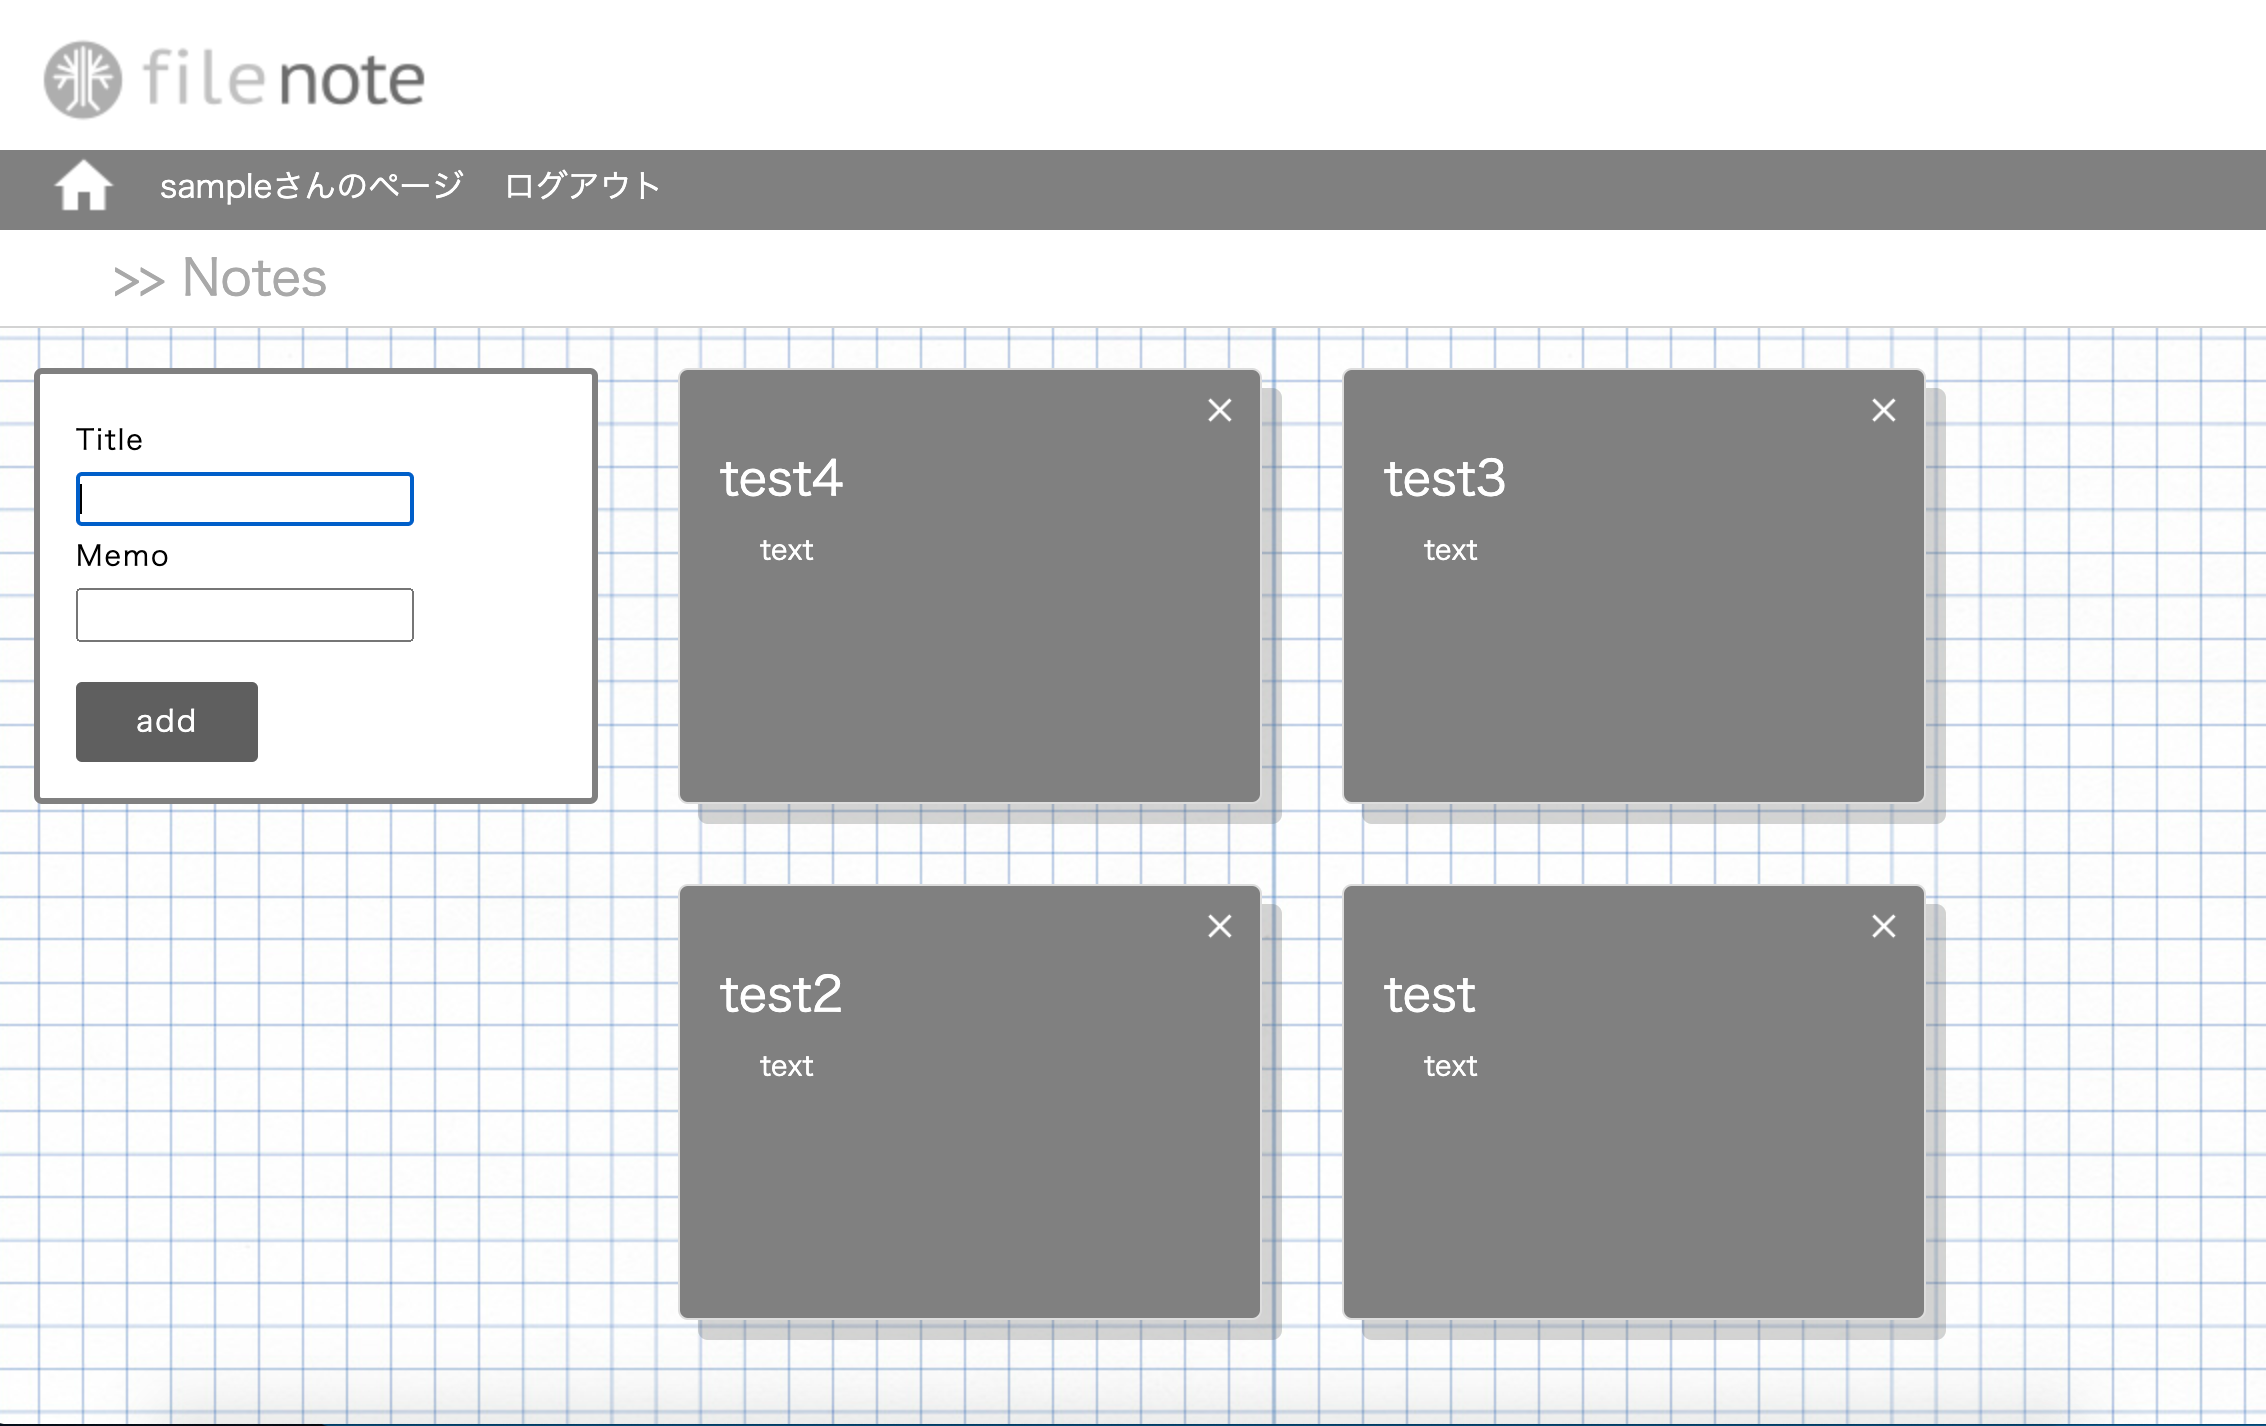
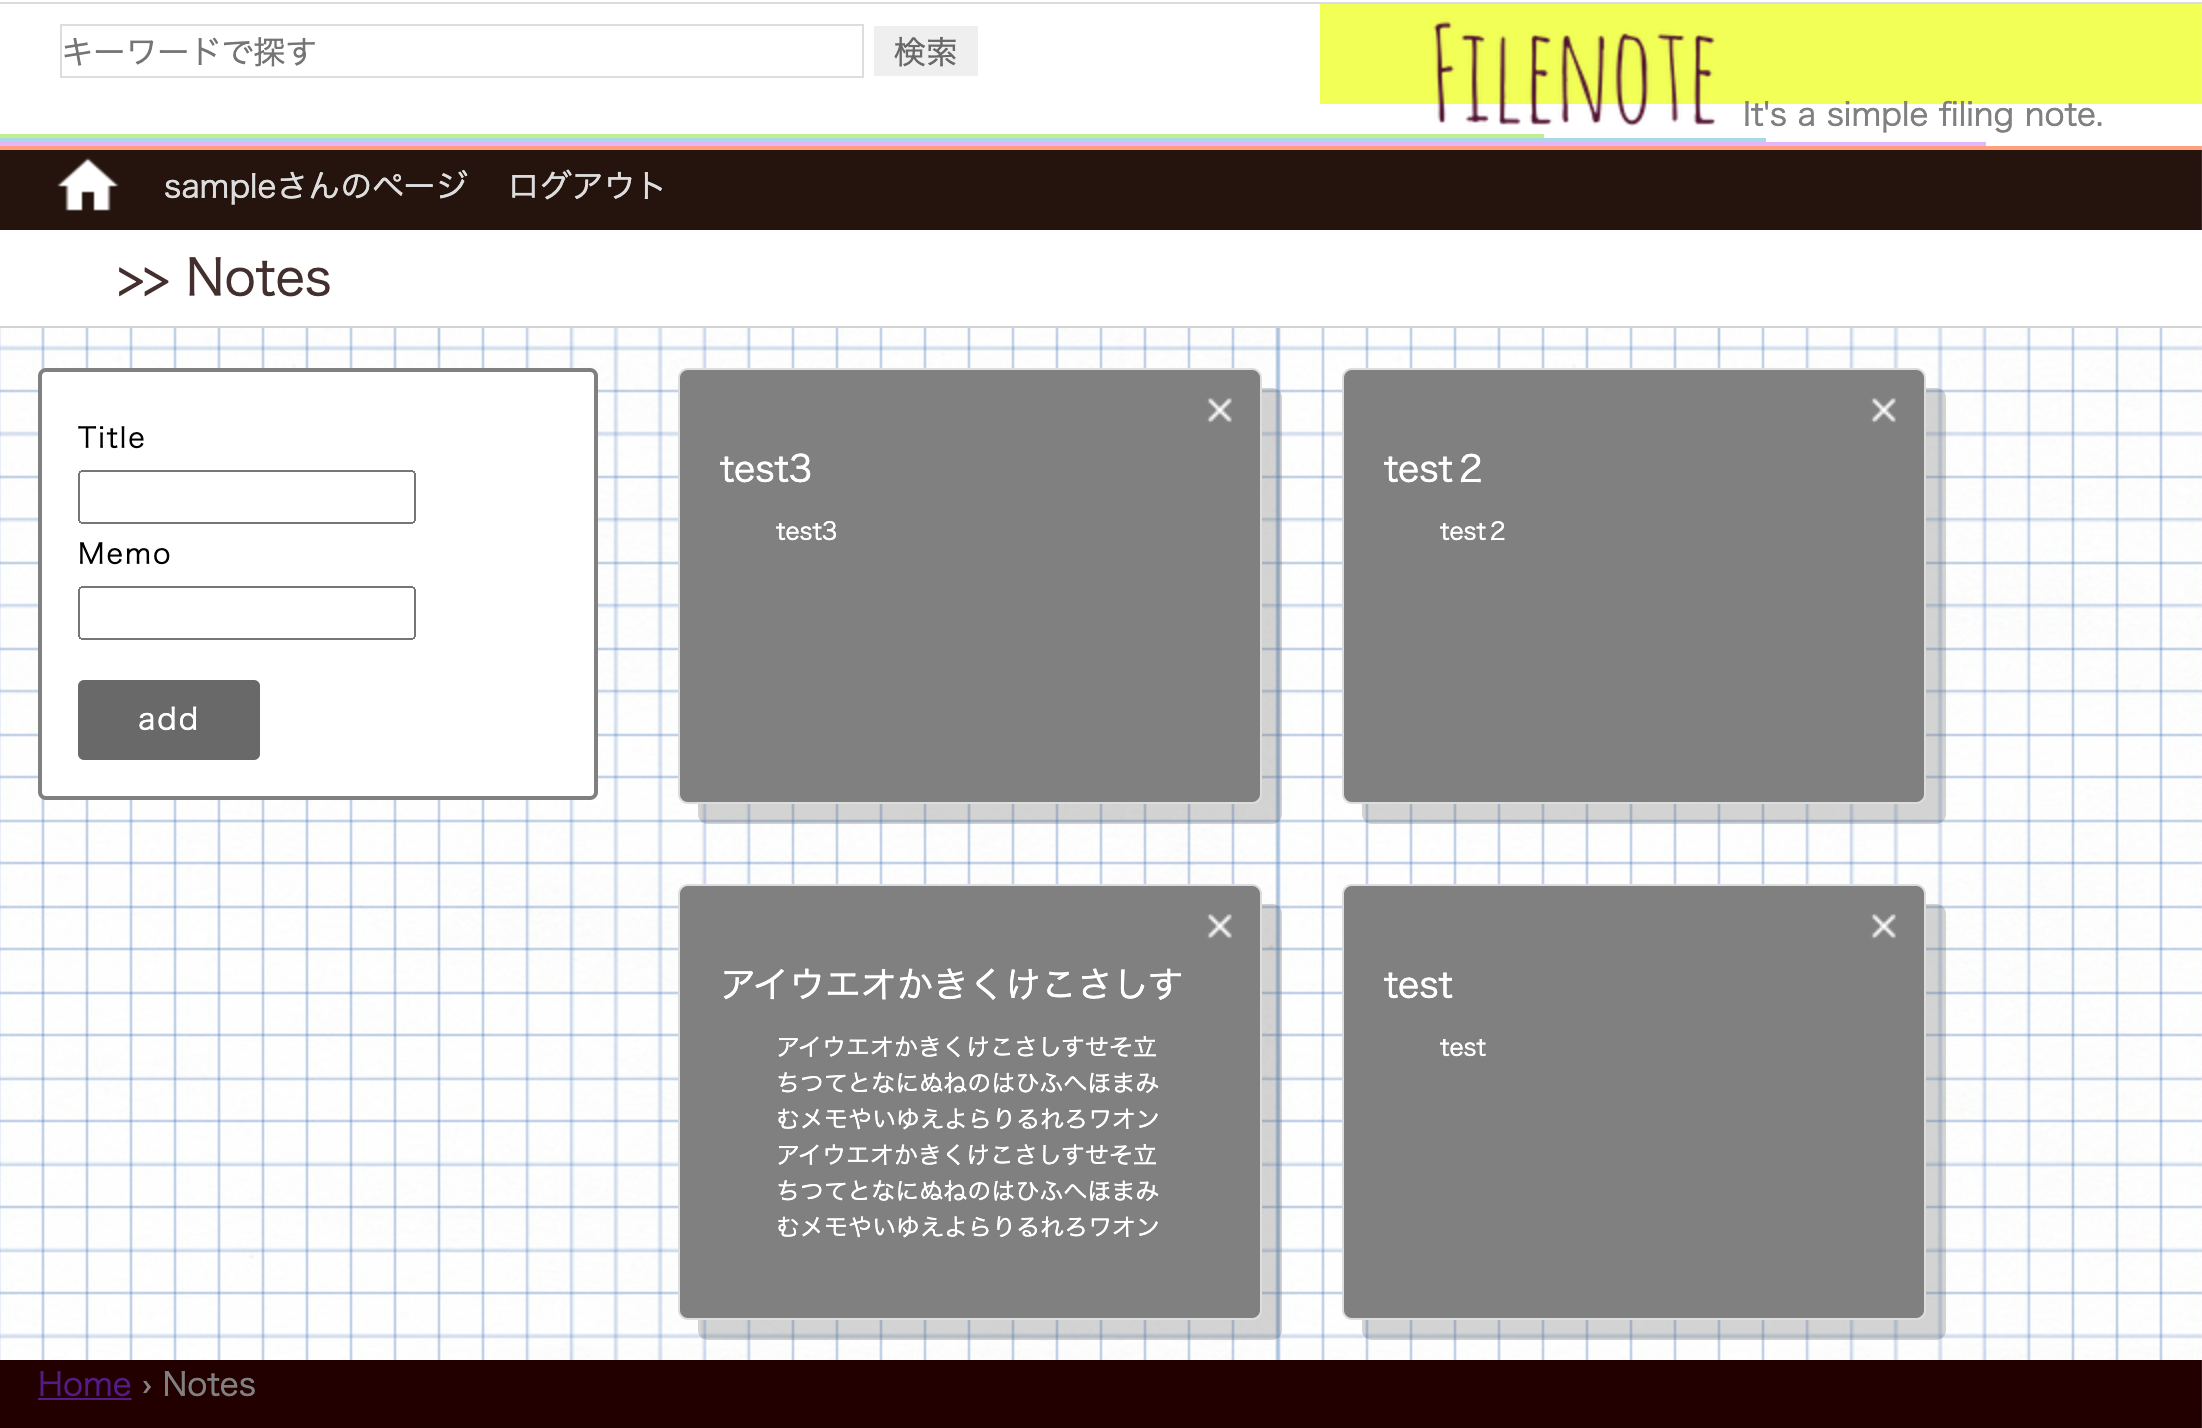
フロント追加

diff --git a/app/assets/stylesheets/filenotes.scss b/app/assets/stylesheets/filenotes.scss
@@ -55,14 +55,14 @@ body {
   height: 100px;
   padding: 10px;
   border-color: #ddd;
-  border-radius: 5px;
+  border-radius: 3px;
   background-color: white;
   margin: 30px auto;
 }
 
 .tweet-block {
   padding: 20px 20px 40px;
-  border-radius: 10px;
+  border-radius: 3px;
   width: 300px;
   height: 300px;
   margin: 20px auto;
@@ -72,15 +72,11 @@ body {
   width: 70%;
 }
 
-.memo-page{
-  height: 100vh;
-}
-
 .memo-page__inner {
   width: 240px;
   padding: 18px;
   background-color: #fff;
-  border: 3px solid gray;
+  border: 2px solid gray;
   border-radius: 4px;
   margin: 20px;
   float: left;
@@ -112,7 +108,7 @@ body {
   float: left;
   margin-top: 20px;
   color: #fff;
-  background-color: #5f5f5f;
+  background-color: dimgrey;
 }
 
 .memo-page2__inner {
@@ -142,17 +138,16 @@ body {
 }
 
 .note-title {
-  font-size: 24px;
+  font-size: 18px;
   color: white;
 }
 
 .note-texts {
   margin: 8px 28px 16px;
   word-wrap: break-word;
-  font-size: 14px;
+  font-size: 12px;
   color: white;
 }
-
 
 .close-icon {
   height: 20px;

diff --git a/app/assets/stylesheets/index.css b/app/assets/stylesheets/index.css
@@ -18,8 +18,30 @@
 }
 
 .top-content {
-  width: 380px;
+  width: 300px;
   background-color: #ccbd99;
+}
+
+.category {
+  width: 150px;
+  margin: 40px auto;
+}
+
+.category-title {
+  font-size: 18px;
+  color: #432f2f;
+  margin-bottom: 15px;
+}
+
+.category-menu {
+  font-size: 15px;
+  color: #432f2f;
+  margin-left: 5px;
+}
+
+.category-border {
+  border: 1px solid seashell;
+  margin-bottom: 10px;
 }
 
 .left-contents {
